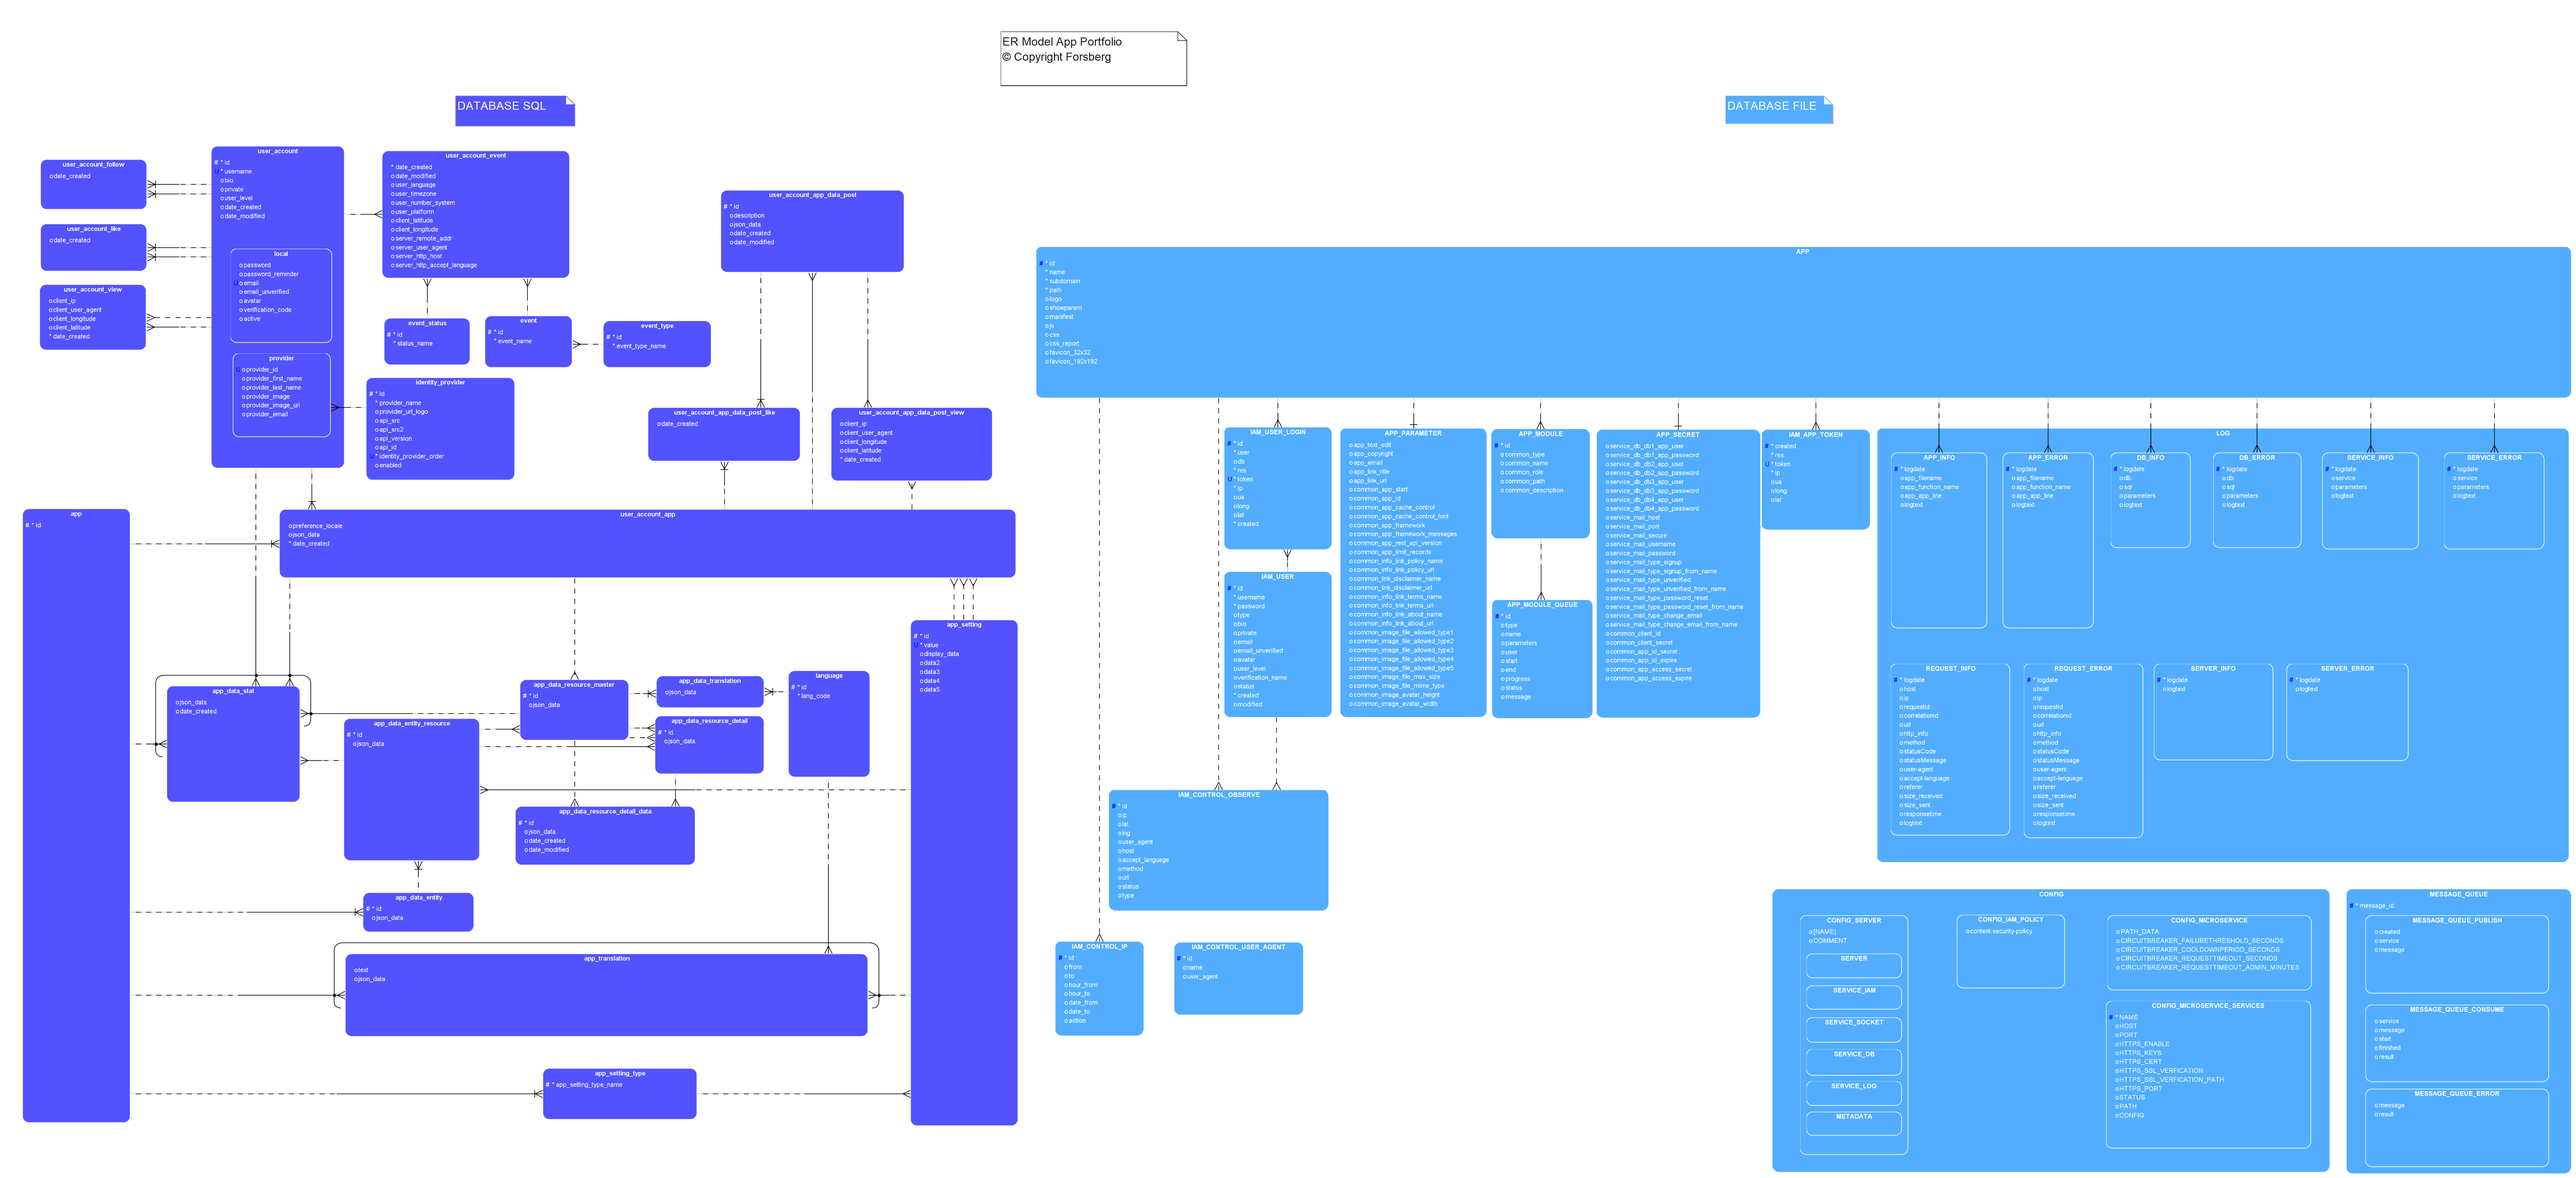
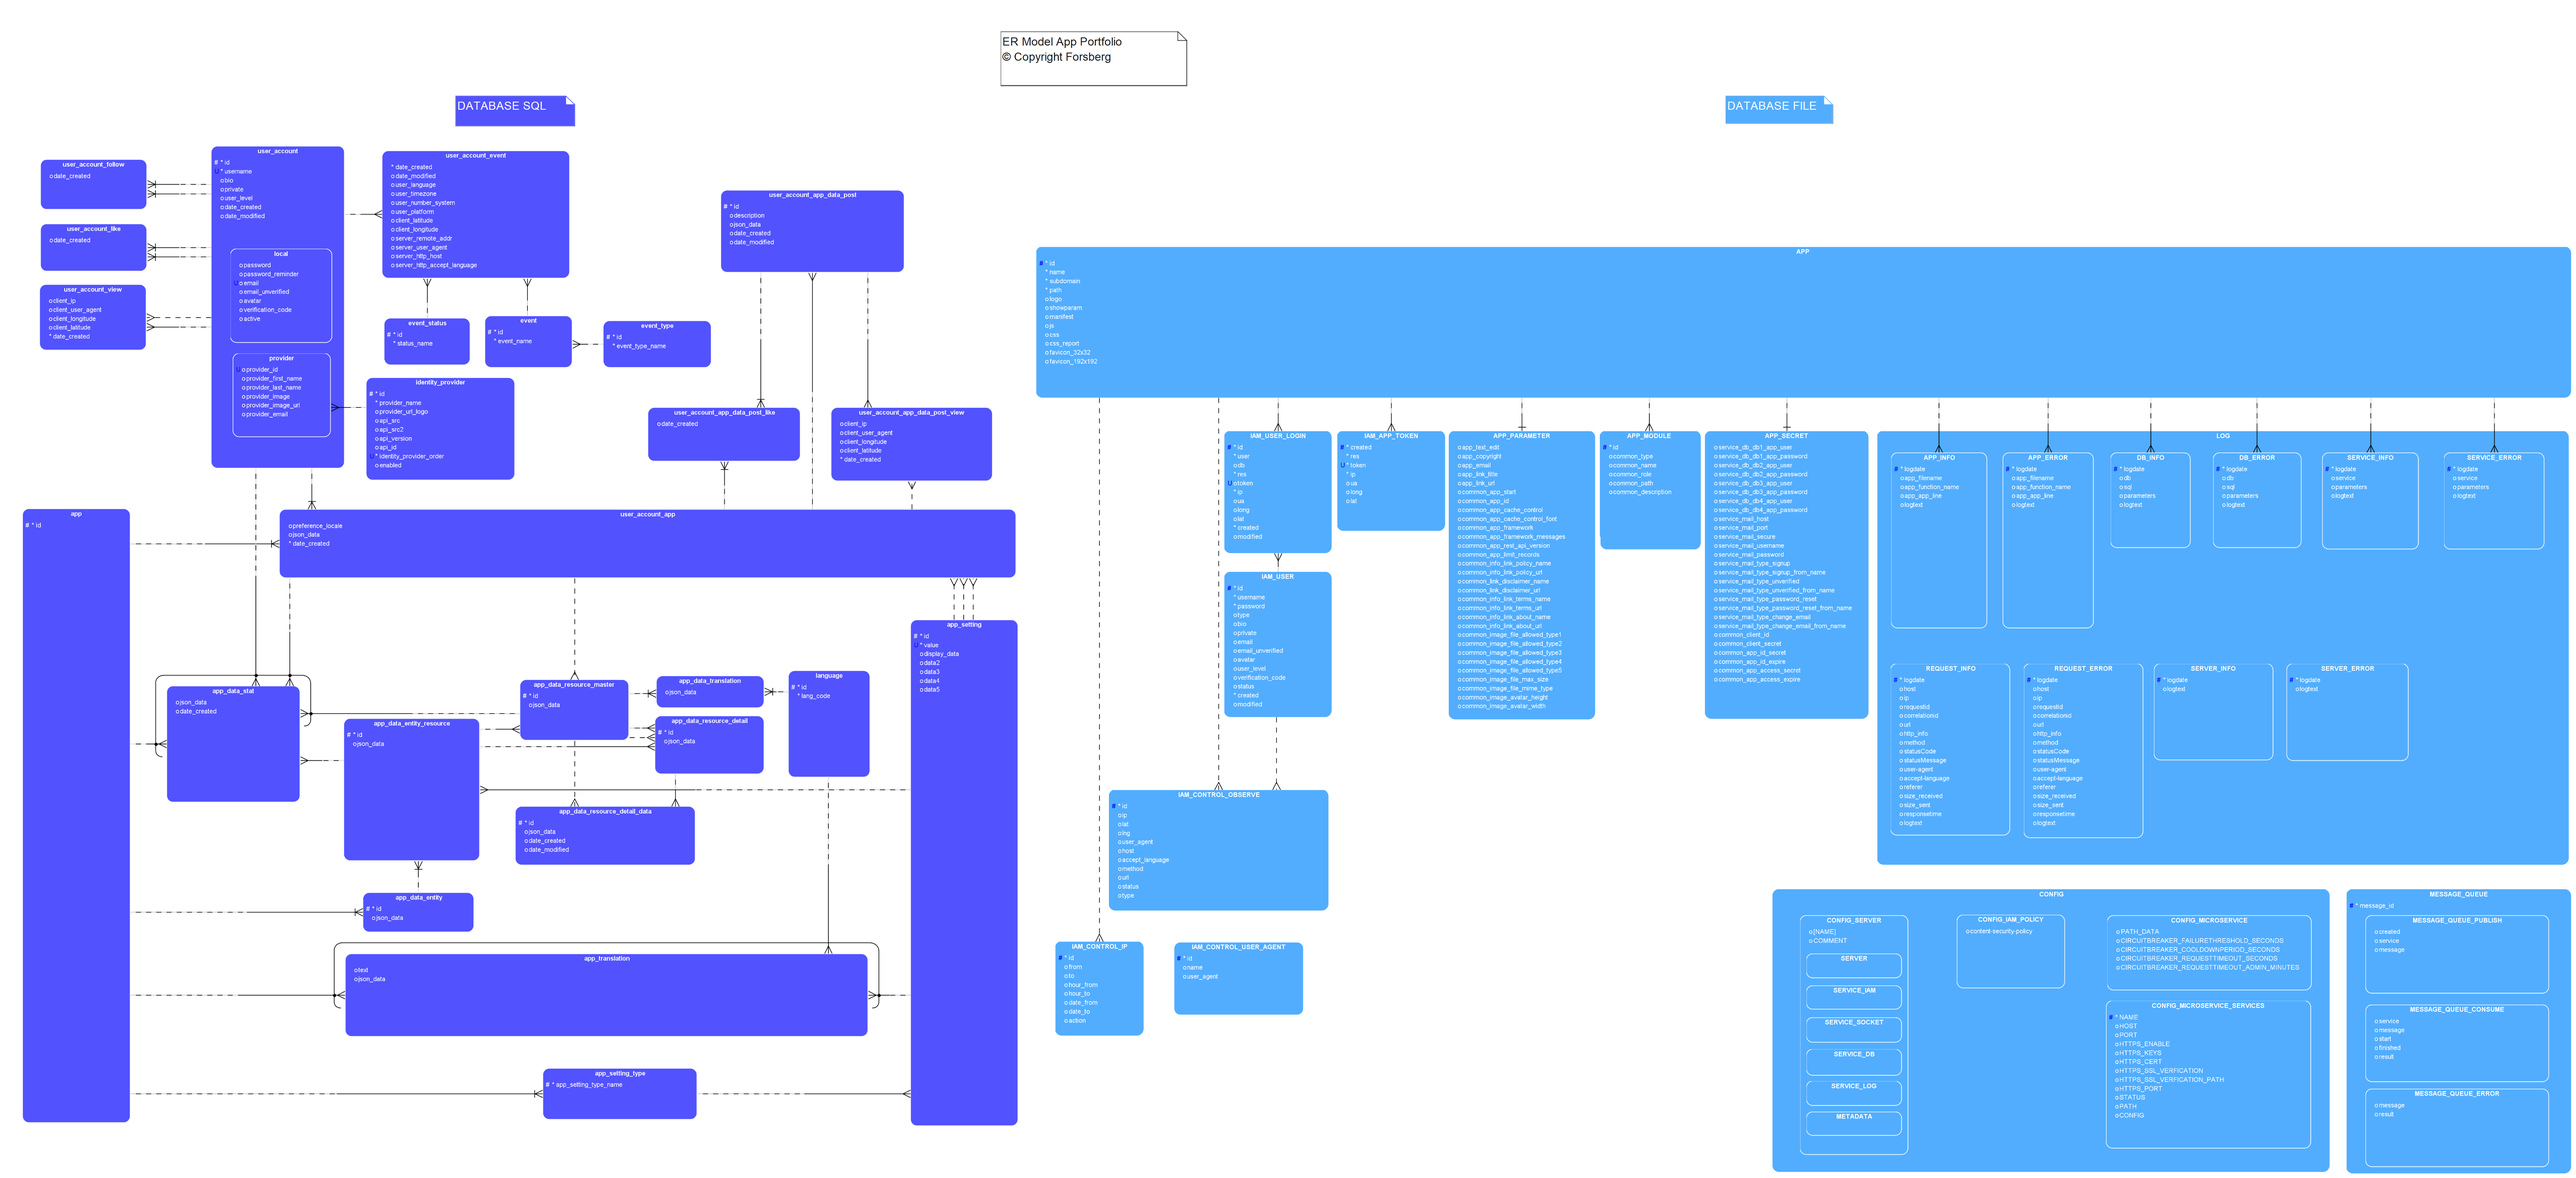
APB-1022 converts iam_app_token.log to iam_app_token.json and JSON_TABLE, uses correct token variables in iamAuthenticateUser and iamAuthenticateUserProvider, corrects backup format in fileFsWrite(), updates ER diagram with IAM_USER_LOGIN.token optional and, moves IAM_APP_TOKEN to the left, updates 

Changed region(s): [[0.4681, 0.3415, 0.749, 0.6209]]

diff --git a/server/iam.service.js b/server/iam.service.js
@@ -338,7 +338,7 @@ const iamAuthenticateUser = async (app_id, iam, ip, user_agent, accept_language,
                                                {   iam:iam,
                                                    user_account_id:result_login[0].id,
                                                    admin:null,
-                                                   token_access:data_body.token,
+                                                   token_access:jwt_data.token,
                                                    token_admin:null,
                                                    ip:ip,
                                                    headers_user_agent:user_agent,
@@ -346,7 +346,7 @@ const iamAuthenticateUser = async (app_id, iam, ip, user_agent, accept_language,
                                                    res: res})
                                            .then(()=>{
                                                resolve({
-                                                   accessToken: data_body.token,
+                                                   accessToken: jwt_data.token,
                                                    exp:jwt_data.exp,
                                                    iat:jwt_data.iat,
                                                    tokentimestamp:jwt_data.tokentimestamp,
@@ -363,7 +363,7 @@ const iamAuthenticateUser = async (app_id, iam, ip, user_agent, accept_language,
                                        {   iam:iam,
                                            user_account_id:result_login[0].id,
                                            admin:null,
-                                           token_access:data_body.token,
+                                           token_access:jwt_data.token,
                                            token_admin:null,
                                            ip:ip,
                                            headers_user_agent:user_agent,
@@ -371,7 +371,7 @@ const iamAuthenticateUser = async (app_id, iam, ip, user_agent, accept_language,
                                            res: res})
                                    .then(()=>{
                                        resolve({
-                                           accessToken: data_body.token,
+                                           accessToken: jwt_data.token,
                                            exp:jwt_data.exp,
                                            iat:jwt_data.iat,
                                            tokentimestamp:jwt_data.tokentimestamp,
@@ -491,7 +491,7 @@ const iamAuthenticateUserProvider = async (app_id, iam, resource_id, ip, user_ag
                                 {   iam:iam,
                                     user_account_id:result_signin[0].id,
                                     admin:null,
-                                    token_access:data_login.token,
+                                    token_access:jwt_data_exists.token,
                                     token_admin:null,
                                     ip:ip,
                                     headers_user_agent:user_agent,
@@ -499,7 +499,7 @@ const iamAuthenticateUserProvider = async (app_id, iam, resource_id, ip, user_ag
                                     res: res})
                             .then(()=>{
                                 resolve({
-                                    accessToken: data_login.token,
+                                    accessToken: jwt_data_exists.token,
                                     exp:jwt_data_exists.exp,
                                     iat:jwt_data_exists.iat,
                                     tokentimestamp:jwt_data_exists.tokentimestamp,
@@ -551,7 +551,7 @@ const iamAuthenticateUserProvider = async (app_id, iam, resource_id, ip, user_ag
                                    {   iam:iam,
                                        user_account_id:result_create.insertId,
                                        admin:null,
-                                       token_access:data_login.token,
+                                       token_access:jwt_data_new.token,
                                        token_admin:null,
                                        ip:ip,
                                        headers_user_agent:user_agent,
@@ -559,7 +559,7 @@ const iamAuthenticateUserProvider = async (app_id, iam, resource_id, ip, user_ag
                                        res: res})
                                 .then(()=>{
                                     resolve({
-                                       accessToken: data_login.token,
+                                       accessToken: jwt_data_new.token,
                                        exp:jwt_data_new.exp,
                                        iat:jwt_data_new.iat,
                                        tokentimestamp:jwt_data_new.tokentimestamp,
@@ -779,7 +779,7 @@ const iamAuthenticateUserActivate = async (app_id, resource_id, ip, user_agent, 
                     resolve({
                        count: result_activate.affectedRows,
                        auth: auth_password_new,
-                       accessToken: data_body.token,
+                       accessToken: jwt_data.token,
                        exp:jwt_data.exp,
                        iat:jwt_data.iat,
                        tokentimestamp:jwt_data.tokentimestamp,

diff --git a/server/db/file.js b/server/db/file.js
@@ -65,7 +65,7 @@ const FILE_DB = [   {NAME:'CONFIG_SERVER',                  TYPE:'JSON',        
                     {NAME:'APP_PARAMETER',                  TYPE:'JSON_TABLE',      LOCK:0, TRANSACTION_ID:0,   TRANSACTION_CONTENT: null, PATH:`${SLASH}data${SLASH}db${SLASH}`,           FILENAME:'app_parameter.json', CACHE_CONTENT:null},
                     {NAME:'APP_SECRET',                     TYPE:'JSON_TABLE',      LOCK:0, TRANSACTION_ID:0,   TRANSACTION_CONTENT: null, PATH:`${SLASH}data${SLASH}db${SLASH}`,           FILENAME:'app_secret.json', CACHE_CONTENT:null},
                     {NAME:'DB_FILE',                        TYPE:'BINARY',          LOCK:0, TRANSACTION_ID:0,   TRANSACTION_CONTENT: null, PATH:`${SLASH}data${SLASH}db${SLASH}`,           FILENAME:'sqlite.db'},
-                    {NAME:'IAM_APP_TOKEN',                  TYPE:'JSON_LOG',        LOCK:0, TRANSACTION_ID:0,   TRANSACTION_CONTENT: null, PATH:`${SLASH}data${SLASH}iam${SLASH}`,          FILENAME:'iam_app_token.log'},
+                    {NAME:'IAM_APP_TOKEN',                  TYPE:'JSON_TABLE',      LOCK:0, TRANSACTION_ID:0,   TRANSACTION_CONTENT: null, PATH:`${SLASH}data${SLASH}iam${SLASH}`,          FILENAME:'iam_app_token.json', CACHE_CONTENT:null},
                     {NAME:'IAM_CONTROL_IP',                 TYPE:'JSON_TABLE',      LOCK:0, TRANSACTION_ID:0,   TRANSACTION_CONTENT: null, PATH:`${SLASH}data${SLASH}iam${SLASH}`,          FILENAME:'iam_control_ip.json', CACHE_CONTENT:null},
                     {NAME:'IAM_CONTROL_USER_AGENT',         TYPE:'JSON_TABLE',      LOCK:0, TRANSACTION_ID:0,   TRANSACTION_CONTENT: null, PATH:`${SLASH}data${SLASH}iam${SLASH}`,          FILENAME:'iam_control_user_agent.json', CACHE_CONTENT:null},
                     {NAME:'IAM_CONTROL_OBSERVE',            TYPE:'JSON_TABLE',      LOCK:0, TRANSACTION_ID:0,   TRANSACTION_CONTENT: null, PATH:`${SLASH}data${SLASH}iam${SLASH}`,          FILENAME:'iam_control_observe.json', CACHE_CONTENT:null},
@@ -293,7 +293,13 @@ const fileFsWrite = async (file, transaction_id, file_content) =>{
         const filepath_backup = fileRecord(file).PATH + 'backup/' + fileRecord(file).FILENAME;
         //write backup of old config file
         await fs.promises.writeFile(process.cwd() + `${filepath_backup}.${new Date().toISOString().replace(new RegExp(':', 'g'),'.')}`, 
-                                    JSON.stringify(fileRecord(file).TRANSACTION_CONTENT),  
+                                    fileRecord(file).TYPE=='JSON_TABLE'?
+                                    //save records in new row and compact format
+                                    /**@ts-ignore */
+                                    '[\n' + fileRecord(file).TRANSACTION_CONTENT.map(row=>JSON.stringify(row)).join(',\n') + '\n]':
+                                        //JSON, convert to string
+                                        JSON.stringify(fileRecord(file).TRANSACTION_CONTENT, undefined, 2)
+                                    ,  
                                     'utf8');
         //write new file content
         return await fs.promises.writeFile( process.cwd() + filepath, 

diff --git a/server/db/fileModelIamAppToken.js b/server/db/fileModelIamAppToken.js
@@ -5,14 +5,14 @@
  */
 
 /**@type{import('./file.js')} */
-const {fileCommonRecordNotFound, fileFsDBLogPost, fileFsDBLogGet} = await import(`file://${process.cwd()}/server/db/file.js`);
+const {fileCommonRecordNotFound, fileDBPost, fileDBGet} = await import(`file://${process.cwd()}/server/db/file.js`);
 /**
  * Get user 
  * @function
  * @param {number} app_id
  * @returns {Promise.<server_db_file_iam_app_token[]>}
  */
-const get = async app_id => fileFsDBLogGet(app_id, 'IAM_APP_TOKEN', null, null,'');
+const get = async app_id => fileDBGet(app_id, 'IAM_APP_TOKEN', null, null);
 
 /**
  * Add record
@@ -29,7 +29,7 @@ const post = async (app_id, data) => {
         data.token != null &&
         data.ip != null){
         //security check that token is not used already
-        if (await fileFsDBLogGet(app_id, 'IAM_APP_TOKEN', null, null,'').then(result=>result.filter((/**@type{server_db_file_iam_app_token} */row)=>row.token==data.token).length==0)){
+        if (fileDBGet(app_id, 'IAM_APP_TOKEN', null, null).filter((/**@type{server_db_file_iam_app_token} */row)=>row.token==data.token).length==0){
             /**@type{server_db_file_iam_app_token} */
             const data_new = {};
             //required
@@ -45,7 +45,7 @@ const post = async (app_id, data) => {
             if (data.lat!=null)
                 data_new.lat = data.lat;
             data_new.created = new Date().toISOString();
-            return fileFsDBLogPost(app_id, 'IAM_APP_TOKEN',data_new, '').then((result)=>{
+            return fileDBPost(app_id, 'IAM_APP_TOKEN',data_new).then((result)=>{
                 if (result.affectedRows>0)
                     return result;
                 else

diff --git a/server/types.js b/server/types.js
@@ -440,7 +440,7 @@
  *              TYPE:'JSON'|'JSON_TABLE'|'JSON_LOG'|'JSON_LOG_DATE'|'BINARY',
  *              LOCK:number, 
  *              TRANSACTION_ID:number|null, 
- *              TRANSACTION_CONTENT: object|string|null, 
+ *              TRANSACTION_CONTENT: object|string|[]|null, 
  *              PATH:string, 
  *              FILENAME:string,
  *              CACHE_CONTENT?:* }} server_db_file_db_record
